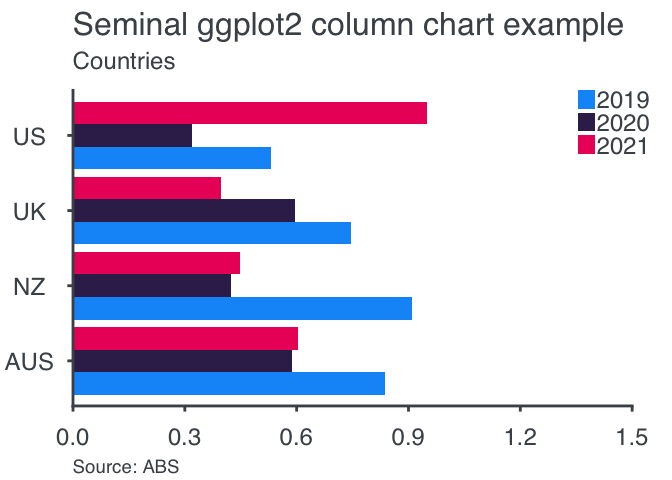
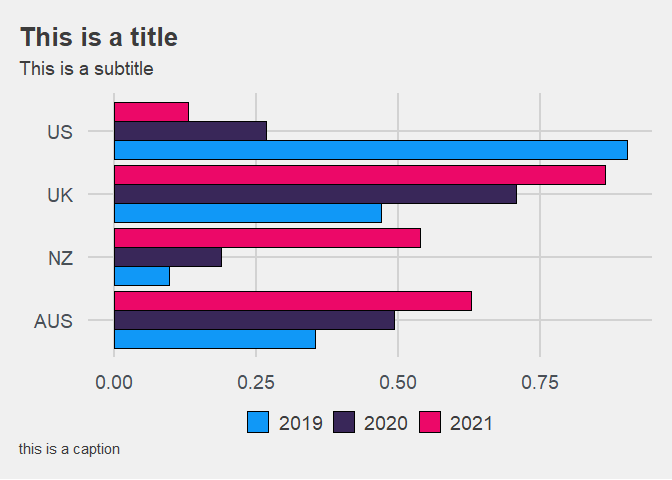
update readme file

diff --git a/README.md b/README.md
@@ -4,7 +4,6 @@
 # leplot
 
 <!-- badges: start -->
-
 <!-- badges: end -->
 
 A package for drawing graphs in the Layman Economics blog style
@@ -23,14 +22,17 @@ devtools::install_github("miguelayalar/leplot")
 ``` r
 library(leplot)
 library(tidyverse)
-#> ── Attaching packages ─────────────────────────────────────── tidyverse 1.3.1 ──
-#> ✓ ggplot2 3.3.5     ✓ purrr   0.3.4
-#> ✓ tibble  3.1.6     ✓ dplyr   1.0.8
-#> ✓ tidyr   1.2.0     ✓ stringr 1.4.0
-#> ✓ readr   2.1.2     ✓ forcats 0.5.1
+#> ── Attaching core tidyverse packages ──────────────────────── tidyverse 2.0.0 ──
+#> ✔ dplyr     1.1.4     ✔ readr     2.1.5
+#> ✔ forcats   1.0.0     ✔ stringr   1.5.1
+#> ✔ ggplot2   3.5.2     ✔ tibble    3.2.1
+#> ✔ lubridate 1.9.4     ✔ tidyr     1.3.1
+#> ✔ purrr     1.0.4     
 #> ── Conflicts ────────────────────────────────────────── tidyverse_conflicts() ──
-#> x dplyr::filter() masks stats::filter()
-#> x dplyr::lag()    masks stats::lag()
+#> ✖ dplyr::filter() masks stats::filter()
+#> ✖ dplyr::lag()    masks stats::lag()
+#> ℹ Use the conflicted package (<http://conflicted.r-lib.org/>) to force all conflicts to become errors
+cols <- le_palette()
 ```
 
 ## Example
@@ -39,26 +41,24 @@ library(tidyverse)
 
 ``` r
 
-economics_long %>% 
+ggplot2::economics_long %>% 
   dplyr::select(-4) %>%
-  filter(variable %in% c('psavert', "pce")) %>% 
-  leplot_line(a =., 
-              ttl = "US macro variables",
-              x_break = "2 year",
-              leg = c('Consumption (RHS)', 'Savings rate (LHS)'),
-              lh_units = "%", 
-              x_range = c(2004, 2016), 
-              y_range = c(0, 16, 2),
-              leg_col = 1,
-              #leg_pos = c(0.25, 0.88),
-              rh_units = "Billions ($)",
-              nudge_rh_units = 0.2,
-              rhs_var = 'pce',
-              y2_range = c(0, 2e+04, 2e+03),
-              invert_axis = 0,
-              thm = 'le_theme')
-#> Roboto Condensed font not found; install with hrbrthemes::import_roboto_condensed()
-#> Warning: Removed 876 row(s) containing missing values (geom_path).
+  filter(variable %in% c('psavert')) %>% 
+  ggplot(aes(date, value, colour = variable)) +
+  geom_line(linewidth = 1.1) +
+  scale_colour_manual(values = cols) +
+  labs(title = "This is a title",
+       subtitle = "Personal savings rate",
+       caption = "this is a caption") +
+  ylab("%") +
+  le_theme(rm_x_leg = TRUE) +
+  theme(legend.position = "none")
+#> Warning in as.POSIXlt.POSIXct(x): unknown timezone 'AET-10AET'
+#> Warning in format.POSIXlt(as.POSIXlt(x, tz), format, usetz, ...): unknown
+#> timezone 'AET-10AET'
+#> Warning in as.POSIXlt.POSIXct(x): unknown timezone 'AET-10AET'
+#> Warning in format.POSIXlt(as.POSIXlt(x, tz), format, usetz, ...): unknown
+#> timezone 'AET-10AET'
 ```
 
 <img src="man/figures/README-example 1-1.png" width="100%" />
@@ -72,13 +72,57 @@ yr <- c(rep("2019", 4),rep("2020", 4), rep("2021", 4))
 
 m <- data.frame(category = ctry, variable = yr, value = runif(12))
 
-
-leplot_col(m, ttl = 'Seminal ggplot2 column chart example', 
-                lh_units = "Countries", 
-                y_range = c(0,1.5,.3), 
-                flip = 1, stack = 0, 
-                leg_pos = c(0.9, 0.9))
-#> Roboto Condensed font not found; install with hrbrthemes::import_roboto_condensed()
+m %>% 
+  ggplot(aes(category, value, fill = variable)) +
+  geom_col(position = "dodge", colour = "black") +
+  scale_fill_manual(values = cols) +
+  coord_flip() +
+  labs(title = "This is a title",
+       subtitle = "This is a subtitle",
+       caption = "this is a caption") +
+  le_theme(rm_x_leg = TRUE, rm_y_leg = TRUE)
 ```
 
 <img src="man/figures/README-example 2-1.png" width="100%" />
+
+### Scatter plot:
+
+``` r
+
+ggplot2::economics %>% 
+  ggplot(aes(pce, psavert)) +
+  geom_point(colour = cols[1]) +
+  labs(title = "This is a title",
+       subtitle = "This is a subtitle",
+       caption = "this is a caption") +
+  le_theme()
+```
+
+<img src="man/figures/README-example 3-1.png" width="100%" />
+
+### Bar plot:
+
+``` r
+specie <- c(rep("sorgho" , 4) , rep("poacee" , 4) , rep("banana" , 4) , rep("triticum" , 4))
+condition <- rep(c("Normal" , "Stress" , "Nitrogen", "Other") , 4)
+value <- rnorm(16 , -5 , 15)
+data <- data.frame(specie,condition,value)
+
+
+data <- data %>% 
+  arrange(specie, rev(value)) %>% 
+  dplyr::group_by(specie) %>% 
+  dplyr::mutate(label_y = cumsum(value)-0.5*value)
+
+data %>% 
+  ggplot(aes(fill=condition, y=value, x=specie)) + 
+  geom_bar(position="stack", stat="identity", colour = "black") +
+  scale_fill_manual(values = cols) +
+  facet_wrap(~condition) +
+  labs(title = "This is a title",
+       subtitle = "This is a subtitle",
+       caption = "this is a caption") +
+  le_theme(rm_x_leg = TRUE)
+```
+
+<img src="man/figures/README-example 4-1.png" width="100%" />
